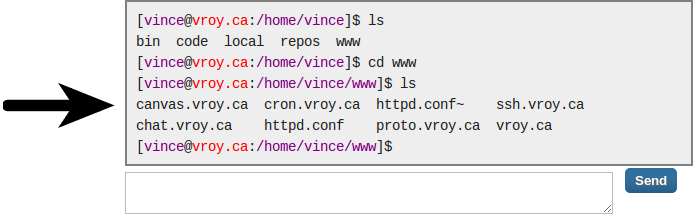
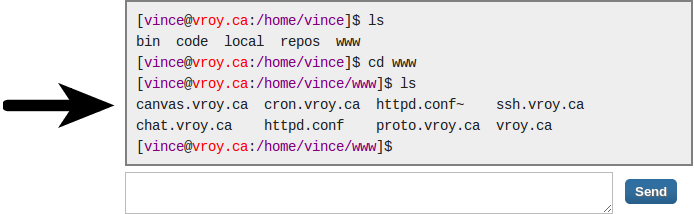
Align send button vertically.

Changed region(s): [[0.8775, 0.785, 0.9986, 0.9533]]

diff --git a/public/css/style.css b/public/css/style.css
@@ -23,6 +23,10 @@
   height: 42px;
 }
 
+#send {
+  margin-top: 12px;
+}
+
 input.text {
   width: 150px;
 }
